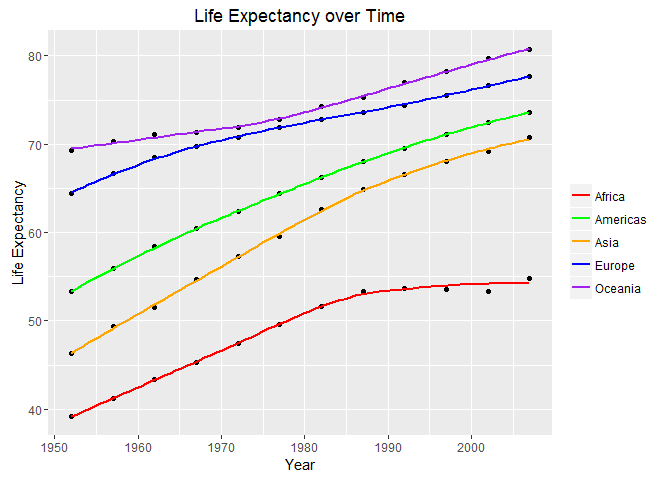
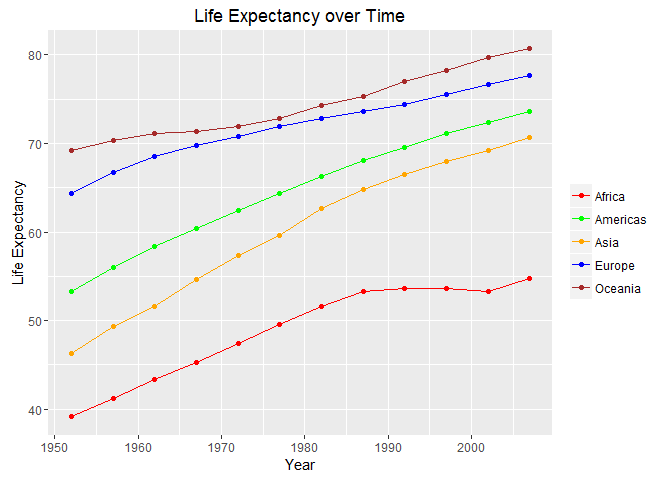
assignment 4 monday's work

diff --git a/hw04_tidy-data-joins/hw04_tidy-data-joins.md b/hw04_tidy-data-joins/hw04_tidy-data-joins.md
@@ -1,7 +1,7 @@
 Tidy data and joins
 ================
 Gokul Raj Suresh Kumar
-2016-10-09
+2016-10-10
 
 Tidying data and performing joins
 =================================
@@ -48,11 +48,10 @@ knitr::kable( le_by_year )
 |  2007|  80.653|  72.96100|  64.698|  82.603|         78.242|
 
 ``` r
-le_by_year %>% ggplot( ) +
-  geom_point( aes( x = Year , y = India ) ) +  
-  geom_smooth( aes( x = Year , y = India , color = "India"  ) , se = FALSE ) +
-  geom_point( aes( x = Year , y = Canada ) ) +  
-  geom_smooth( aes( x = Year , y = Canada , color = "Canada" ) , se = FALSE ) +
+le_by_year %>% ggplot( aes( x = Year , y = India , color = "India" ) ) +
+  geom_point( ) + geom_line( ) +
+  geom_point( aes( x = Year , y = Canada , color = "Canada" ) ) +  
+  geom_line( aes( x = Year , y = Canada , color = "Canada" ) ) +
   scale_color_manual( name = "" , values = c( "India" = "red" ,
                                               "Canada" = "blue" ) ) +
   labs( title = "Life Expectancy over Time" , x = "Year" , y = "lifeExp" )
@@ -60,8 +59,7 @@ le_by_year %>% ggplot( ) +
 
 ![](hw04_tidy-data-joins_files/figure-markdown_github/unnamed-chunk-2-1.png)
 
-Activity \#3
-------------
+### Activity \#3
 
 #### Mean life expectancy for all years by continent
 
@@ -95,29 +93,27 @@ knitr::kable( le_continents )
 |  2007|  54.80604|  73.60812|  70.72848|  77.64860|  80.7195|
 
 ``` r
-le_continents %>% ggplot( ) +
-  geom_point( aes( x = Year , y = Africa ) ) +
-  geom_smooth( aes( x = Year , y = Africa , color = "Africa" ) , se = FALSE ) +
-  geom_point( aes( x = Year , y = Americas ) ) +
-  geom_smooth( aes( x = Year , y = Americas, color = "Americas" ) , se = FALSE ) +
-  geom_point( aes( x = Year , y = Asia ) ) +
-  geom_smooth( aes( x = Year , y = Asia , color = "Asia" ) , se = FALSE ) +
-  geom_point( aes( x = Year , y = Europe ) ) +
-  geom_smooth( aes( x = Year , y = Europe , color = "Europe") , se = FALSE ) +
-  geom_point( aes( x = Year , y = Oceania ) ) + 
-  geom_smooth( aes( x = Year , y = Oceania , color = "Oceania" ) , se = FALSE ) +
+le_continents %>% ggplot( aes( x = Year , y = Africa , color = "Africa") ) +
+  geom_point( ) + geom_line( ) +
+  geom_point( aes( x = Year , y = Americas , color = "Americas" ) ) +
+  geom_line( aes( x = Year , y = Americas , color = "Americas" ) ) +
+  geom_point( aes( x = Year , y = Asia , color = "Asia" ) ) +
+  geom_line( aes( x = Year , y = Asia , color = "Asia" ) ) +
+  geom_point( aes( x = Year , y = Europe , color = "Europe" ) ) +
+  geom_line( aes( x = Year , y = Europe , color = "Europe" ) ) +
+  geom_point( aes( x = Year , y = Oceania , color = "Oceania" ) ) +
+  geom_line( aes( x = Year , y = Oceania , color = "Oceania" ) ) +
   scale_color_manual( name = "" , values = c( "Africa" = "red" , 
                                               "Americas" = "green" ,
                                               "Asia" = "orange" , 
                                               "Europe" = "blue" ,
-                                              "Oceania" = "purple") ) +
-  labs( title = "Life Expectancy over Time" , x = "Year" , y = "Life Expectancy" )
+                                              "Oceania" = "brown") ) + 
+    labs( title = "Life Expectancy over Time" , x = "Year" , y = "Life Expectancy" )
 ```
 
 ![](hw04_tidy-data-joins_files/figure-markdown_github/unnamed-chunk-3-1.png)
 
-Activity \#4
-------------
+### Activity \#4
 
 #### Continents having lowest and highest life expectancy by year
 
@@ -150,5 +146,201 @@ knitr::kable( min_max_le_continent )
 |  2002|  39.193|  82.000|      NA|
 |  2007|  39.613|  82.603|      NA|
 
-General data reshaping and relationship to aggregation
-------------------------------------------------------
+Join, merge, look up
+--------------------
+
+### Activity \#1
+
+#### Joining Gapminder with a complimentary data frame
+
+``` r
+knitr::kable( gapminder_data <- gapminder %>% 
+  filter( continent == "Asia" , year == 2007 , lifeExp > 75 ) %>% 
+  select( country , lifeExp, gdpPercap ) )
+```
+
+| country          |  lifeExp|  gdpPercap|
+|:-----------------|--------:|----------:|
+| Bahrain          |   75.635|   29796.05|
+| Hong Kong, China |   82.208|   39724.98|
+| Israel           |   80.745|   25523.28|
+| Japan            |   82.603|   31656.07|
+| Korea, Rep.      |   78.623|   23348.14|
+| Kuwait           |   77.588|   47306.99|
+| Oman             |   75.640|   22316.19|
+| Singapore        |   79.972|   47143.18|
+| Taiwan           |   78.400|   28718.28|
+
+``` r
+country_info <- "
+     country, capitol_city, language_spoken
+     Bahrain,       Manama,          Arabic
+       Japan,        Tokyo,        Japanese
+      Israel,    Jerusalem,          Hebrew
+      Taiwan,       Taipei,        Mandarin
+       India,    New Delhi,           Hindi
+    Cambodia,   Phnom Penh,           Khmer
+    Pakistan,    Islamabad,            Urdu
+"
+country_info <- read_csv( country_info , trim_ws = TRUE , skip = 1 )
+
+knitr::kable( country_info )
+```
+
+| country  | capitol\_city | language\_spoken |
+|:---------|:--------------|:-----------------|
+| Bahrain  | Manama        | Arabic           |
+| Japan    | Tokyo         | Japanese         |
+| Israel   | Jerusalem     | Hebrew           |
+| Taiwan   | Taipei        | Mandarin         |
+| India    | New Delhi     | Hindi            |
+| Cambodia | Phnom Penh    | Khmer            |
+| Pakistan | Islamabad     | Urdu             |
+
+``` r
+knitr::kable( inner_join( gapminder_data , country_info ) )
+```
+
+    ## Joining, by = "country"
+
+    ## Warning in inner_join_impl(x, y, by$x, by$y, suffix$x, suffix$y): joining
+    ## factor and character vector, coercing into character vector
+
+| country |  lifeExp|  gdpPercap| capitol\_city | language\_spoken |
+|:--------|--------:|----------:|:--------------|:-----------------|
+| Bahrain |   75.635|   29796.05| Manama        | Arabic           |
+| Israel  |   80.745|   25523.28| Jerusalem     | Hebrew           |
+| Japan   |   82.603|   31656.07| Tokyo         | Japanese         |
+| Taiwan  |   78.400|   28718.28| Taipei        | Mandarin         |
+
+``` r
+knitr::kable( semi_join( gapminder_data , country_info ) )
+```
+
+    ## Joining, by = "country"
+
+| country |  lifeExp|  gdpPercap|
+|:--------|--------:|----------:|
+| Bahrain |   75.635|   29796.05|
+| Japan   |   82.603|   31656.07|
+| Israel  |   80.745|   25523.28|
+| Taiwan  |   78.400|   28718.28|
+
+``` r
+knitr::kable( left_join( gapminder_data , country_info ) )
+```
+
+    ## Joining, by = "country"
+
+    ## Warning in left_join_impl(x, y, by$x, by$y, suffix$x, suffix$y): joining
+    ## character vector and factor, coercing into character vector
+
+| country          |  lifeExp|  gdpPercap| capitol\_city | language\_spoken |
+|:-----------------|--------:|----------:|:--------------|:-----------------|
+| Bahrain          |   75.635|   29796.05| Manama        | Arabic           |
+| Hong Kong, China |   82.208|   39724.98| NA            | NA               |
+| Israel           |   80.745|   25523.28| Jerusalem     | Hebrew           |
+| Japan            |   82.603|   31656.07| Tokyo         | Japanese         |
+| Korea, Rep.      |   78.623|   23348.14| NA            | NA               |
+| Kuwait           |   77.588|   47306.99| NA            | NA               |
+| Oman             |   75.640|   22316.19| NA            | NA               |
+| Singapore        |   79.972|   47143.18| NA            | NA               |
+| Taiwan           |   78.400|   28718.28| Taipei        | Mandarin         |
+
+``` r
+knitr::kable( anti_join( gapminder_data , country_info ) )
+```
+
+    ## Joining, by = "country"
+
+| country          |  lifeExp|  gdpPercap|
+|:-----------------|--------:|----------:|
+| Hong Kong, China |   82.208|   39724.98|
+| Korea, Rep.      |   78.623|   23348.14|
+| Kuwait           |   77.588|   47306.99|
+| Oman             |   75.640|   22316.19|
+| Singapore        |   79.972|   47143.18|
+
+``` r
+knitr::kable( inner_join( country_info , gapminder_data ) )
+```
+
+    ## Joining, by = "country"
+
+    ## Warning in inner_join_impl(x, y, by$x, by$y, suffix$x, suffix$y): joining
+    ## character vector and factor, coercing into character vector
+
+| country | capitol\_city | language\_spoken |  lifeExp|  gdpPercap|
+|:--------|:--------------|:-----------------|--------:|----------:|
+| Bahrain | Manama        | Arabic           |   75.635|   29796.05|
+| Japan   | Tokyo         | Japanese         |   82.603|   31656.07|
+| Israel  | Jerusalem     | Hebrew           |   80.745|   25523.28|
+| Taiwan  | Taipei        | Mandarin         |   78.400|   28718.28|
+
+``` r
+knitr::kable( semi_join( country_info , gapminder_data ) )
+```
+
+    ## Joining, by = "country"
+
+| country | capitol\_city | language\_spoken |
+|:--------|:--------------|:-----------------|
+| Bahrain | Manama        | Arabic           |
+| Israel  | Jerusalem     | Hebrew           |
+| Japan   | Tokyo         | Japanese         |
+| Taiwan  | Taipei        | Mandarin         |
+
+``` r
+knitr::kable( left_join( country_info , gapminder_data ) )
+```
+
+    ## Joining, by = "country"
+
+    ## Warning in left_join_impl(x, y, by$x, by$y, suffix$x, suffix$y): joining
+    ## factor and character vector, coercing into character vector
+
+| country  | capitol\_city | language\_spoken |  lifeExp|  gdpPercap|
+|:---------|:--------------|:-----------------|--------:|----------:|
+| Bahrain  | Manama        | Arabic           |   75.635|   29796.05|
+| Japan    | Tokyo         | Japanese         |   82.603|   31656.07|
+| Israel   | Jerusalem     | Hebrew           |   80.745|   25523.28|
+| Taiwan   | Taipei        | Mandarin         |   78.400|   28718.28|
+| India    | New Delhi     | Hindi            |       NA|         NA|
+| Cambodia | Phnom Penh    | Khmer            |       NA|         NA|
+| Pakistan | Islamabad     | Urdu             |       NA|         NA|
+
+``` r
+knitr::kable( anti_join( country_info , gapminder_data ) )
+```
+
+    ## Joining, by = "country"
+
+| country  | capitol\_city | language\_spoken |
+|:---------|:--------------|:-----------------|
+| Cambodia | Phnom Penh    | Khmer            |
+| India    | New Delhi     | Hindi            |
+| Pakistan | Islamabad     | Urdu             |
+
+``` r
+knitr::kable( full_join( country_info , gapminder_data ) )
+```
+
+    ## Joining, by = "country"
+
+    ## Warning in full_join_impl(x, y, by$x, by$y, suffix$x, suffix$y): joining
+    ## factor and character vector, coercing into character vector
+
+| country          | capitol\_city | language\_spoken |  lifeExp|  gdpPercap|
+|:-----------------|:--------------|:-----------------|--------:|----------:|
+| Bahrain          | Manama        | Arabic           |   75.635|   29796.05|
+| Japan            | Tokyo         | Japanese         |   82.603|   31656.07|
+| Israel           | Jerusalem     | Hebrew           |   80.745|   25523.28|
+| Taiwan           | Taipei        | Mandarin         |   78.400|   28718.28|
+| India            | New Delhi     | Hindi            |       NA|         NA|
+| Cambodia         | Phnom Penh    | Khmer            |       NA|         NA|
+| Pakistan         | Islamabad     | Urdu             |       NA|         NA|
+| Hong Kong, China | NA            | NA               |   82.208|   39724.98|
+| Korea, Rep.      | NA            | NA               |   78.623|   23348.14|
+| Kuwait           | NA            | NA               |   77.588|   47306.99|
+| Oman             | NA            | NA               |   75.640|   22316.19|
+| Singapore        | NA            | NA               |   79.972|   47143.18|
